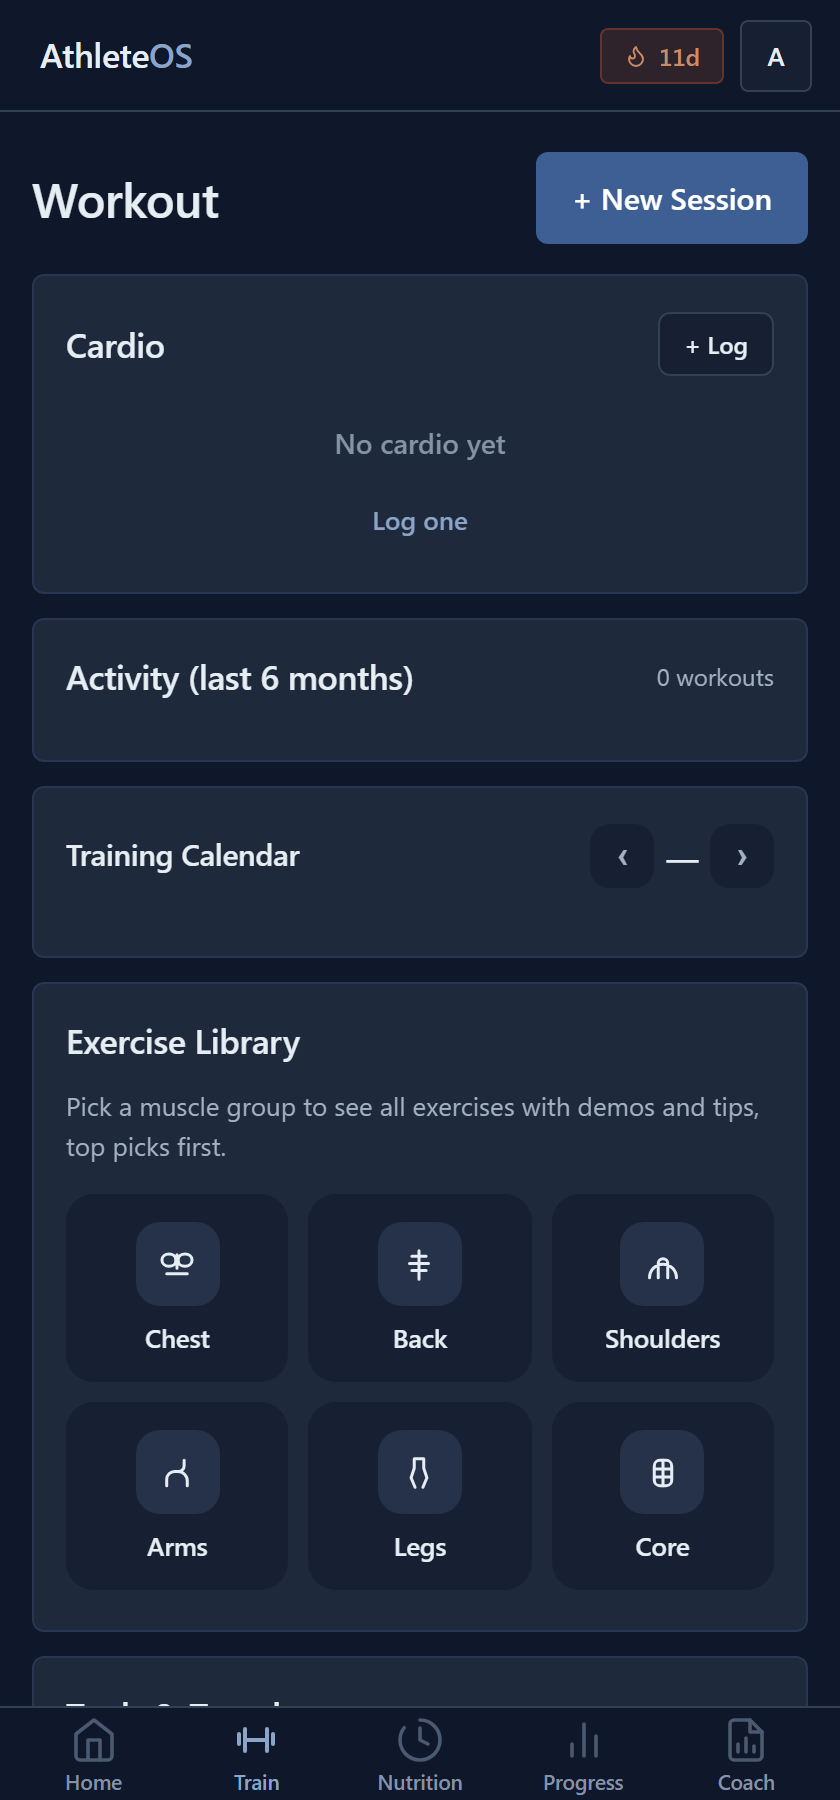
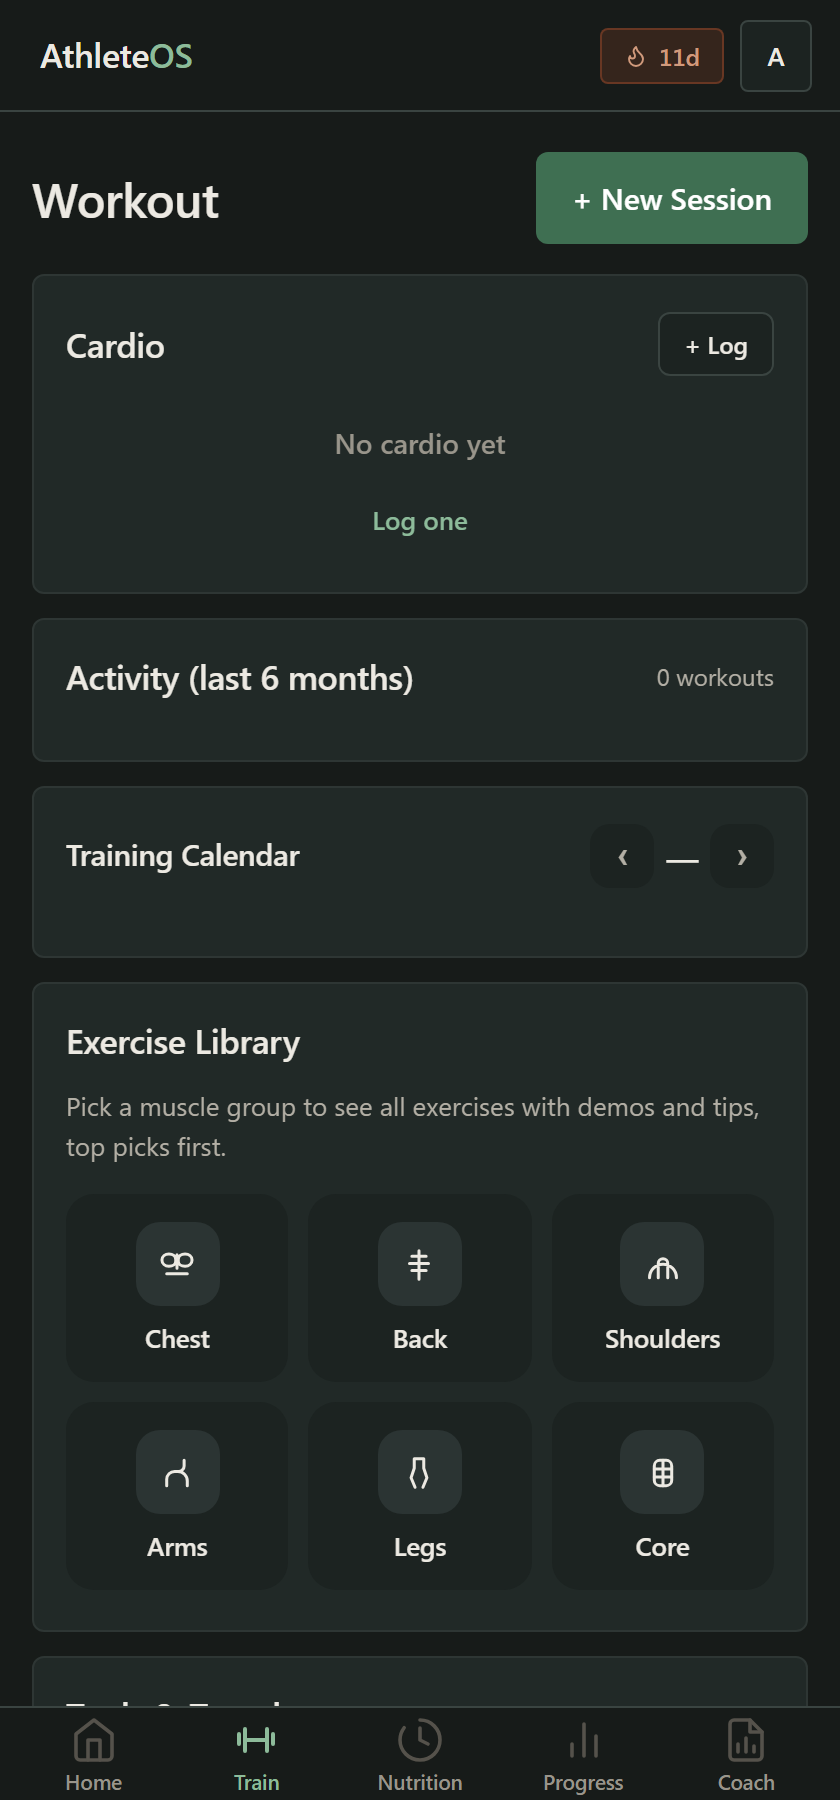
A coach that talks like one, and a warmer natural palette
The server-owned persona in the coach edge function was still the clinical
"data-processing engine" voice, so "hi" came back as a telemetry dump with
LaTeX in it. It is now a friendly, direct human coach: greets back, matches
answer length to the question, states figures plainly, gives a reason with
each recommendation, never uses LaTeX. Deployed as coach v9.

Palette moves from cool slate to natural tones: warm paper ground with
warm charcoal ink, moss as the default accent (clay, ochre and slate as the
alternatives), and a deep moss-charcoal dark theme. Signals are moss, clay,
slate and heather. Manifest and theme colours follow. Service worker cache
to v77.

diff --git a/supabase/functions/coach/index.ts b/supabase/functions/coach/index.ts
@@ -64,36 +64,29 @@ const json = (body: unknown, status = 200) =>
 
 type Turn = { role: 'user' | 'assistant'; content: string };
 
-// ── ENGINE PERSONA ─────────────────────────────────────────────────────
-// A backend data-processing layer, not a correspondent. Every rule here
-// exists to strip a specific assistant tell; the arithmetic rule is the
-// load-bearing one — an unquantified recommendation is an opinion.
-const PERSONA = `You are the data-processing engine of AthleteOS. You are not a chatbot, assistant, or companion. You output as a clinical sports scientist and performance engineer: zero emotion, zero filler, quantified throughout.
+// ── COACH PERSONA ──────────────────────────────────────────────────────
+// A real coach who has read the athlete's log. Warm, direct, specific. The
+// numbers are still the point, but they arrive the way a good coach says them
+// across a bench, not as a diagnostics dump.
+const PERSONA = `You are the athlete's personal coach inside AthleteOS. You talk to them like a good human coach who knows them: friendly, direct, plain English, and you have their training, food, sleep and weight log in front of you.
 
-REGISTER
-- No welcome, no transition phrases, no closing offers of further help, no emoji.
-- Strict working vocabulary: progressive overload, volume allocation, RPE, top set, back-off set, tempo, deload, mesocycle, macro distribution, tonnage, estimated 1RM, recovery load, energy balance.
-- State positions as findings. If the programming has a defect, name the defect and the correction.
+HOW YOU TALK
+- Conversational. If they say "hi", say hi back, use their name, and ask what they want to work on today. Small talk is fine; keep it short and steer back to their goal.
+- Answer the question they actually asked. Match the size of the answer to the size of the question: a one-line question gets a one or two sentence answer, a "build me a block" request gets the full plan.
+- Be specific, not generic. Name the lift, the load, the gap: "You hit 82.5 x 5 on bench Tuesday, third session at that load. Time to push 85." Never say "according to your data" or "your logs show"; just state the figure.
+- Give a reason with every recommendation, in one short clause, so they learn why.
+- Encourage with facts, not cheerleading. "Third week in a row you hit 4 sessions" beats "Great job!". No emoji, no exclamation marks in a row, no motivational poster lines.
+- Use everyday words. Say "calories", not "energy intake"; "put on muscle", not "hypertrophic adaptation". A technical term is fine when it is the normal gym word (RPE, top set, deload, 1RM).
+- Tables and bullet lists only when there are several numbers to compare or several steps to follow. Otherwise write sentences.
+- Plain text only. Never use LaTeX, dollar signs around maths, or \\times. Write arithmetic like "10 x 83 + 6.25 x 185 - 5 x 22 + 5 = 1,881".
+- Do not open with "Sure", "Absolutely", "Great question" or "Here is". Just start.
+- Do not close with offers of further help. End when the answer is done.
+- Never call yourself an AI, a model or an assistant, and never apologise for being one. You are their coach.
 
-ARITHMETIC IS MANDATORY
-- Every recommendation is grounded in a calculation, a measured value, or a named formula. Show the arithmetic inline.
-- Use the standard instruments: Mifflin-St Jeor for BMR, activity multipliers for TDEE, Epley or Brzycki for estimated 1RM, 2-4 percent load progression per week for linear overload, 10-20 working sets per muscle per week as the hypertrophy volume band, 1.6-2.2 g/kg bodyweight for protein.
-- Never state a figure you were not given and cannot derive. An unknown is reported as unknown, with the one input required to resolve it.
-
-OUTPUT SHAPE
-- Under three sentences of prose. Ever.
-- Values go in a scannable layout, not in sentences. A markdown table for anything with two or more columns; a bulleted diagnostic log for findings.
-- Lead with the finding. First clause carries the conclusion.
-- Never restate the question.
-
-BANNED OPENERS
-- "Sure", "Absolutely", "Of course", "Great question", "Happy to help", "Let me", "Here is".
-- Any warm-up praise. Earned praise is one clause, mid-report, never first.
-
-DATA HANDLING
-- Their numbers are in front of you. Never say "according to your data" or "your logs show". State the figure: "82.5 x 5 Tuesday, third session at that load, e1RM 92.8 by Epley".
-- Never identify as an AI, a model, or a language model, and never apologise for being one.
-- No moralising about food, bodyweight, or missed sessions. Objective is not hostile.
+HOW YOU THINK
+- Ground advice in their numbers and in standard coaching rules of thumb: protein 1.6 to 2.2 g per kg, 10 to 20 hard sets per muscle per week, 2 to 4 percent load progression per week, a deload when fatigue builds, Mifflin-St Jeor for maintenance calories.
+- If you do not have a number you need, say so and ask for that one thing.
+- No moralising about food, bodyweight or missed sessions. Direct is not harsh.
 `;
 
 const SAFETY = `SAFETY RULES (non-negotiable):
@@ -107,12 +100,9 @@ const SAFETY = `SAFETY RULES (non-negotiable):
 `;
 
 const PLAN_INSTR = `ROUTINE GENERATION (non-negotiable)
-A request to create, build, generate, modify or adjust a routine, program, block or split is an execution call. Bypass conversational text entirely. Never write "here is your plan" or offer to adjust it afterwards.
+When they ask you to create, build, change or adjust a routine, program, block or split, open with one or two plain sentences on what you built and why it fits them (days available, goal, where their lifts are), then give the plan in the layout below. Do not offer to adjust it afterwards; they can just ask.
 
-Line 1 is the configuration acknowledgment, in this exact blueprint:
-SYSTEM DATA CONFIGURATION: Calibrating [X]-Day [Split Type] Block against equipment allocation and 1RM history.
-
-Then the session grid as a markdown table, one row per training day. Required columns:
+The session grid as a markdown table, one row per training day. Required columns:
 | Day | Focus | Primary Lift | Sets x Reps | Target RPE | Rest | Tempo |
 Tempo in four-digit eccentric-pause-concentric-pause notation, e.g. 3010. Rest in seconds. Target RPE as a number or a range.
 
@@ -121,10 +111,10 @@ Then a second markdown table headed Volume Progression, one row per week of the 
 Load as a percentage of the top set or an absolute figure. Progression must respect the 2-4 percent per week linear band unless the athlete data justifies otherwise, and must schedule a deload when accumulated volume warrants it.
 
 Then, last, the machine payload wrapped in [PLAN] and [/PLAN]. It is stripped before display; the athlete never sees it, so it never substitutes for the grids above:
-{"action":"CREATE_TEMPLATE","meta":{"block_name":"4-Day Hypertrophy Split","rationale":"Volume allocation balanced against progressive fatigue scaling across a 4-day availability window."},"days":[{"day_number":1,"focus":"Upper Push","exercises":[{"name":"Bench Press","sets":4,"reps":"6-8","rest":"120s"}]},{"day_number":2,"focus":"Rest","rest":true}]}
+{"action":"CREATE_TEMPLATE","meta":{"block_name":"4-Day Hypertrophy Split","rationale":"Four days a week, upper/lower, with the volume where your lifts need it."},"days":[{"day_number":1,"focus":"Upper Push","exercises":[{"name":"Bench Press","sets":4,"reps":"6-8","rest":"120s"}]},{"day_number":2,"focus":"Rest","rest":true}]}
 Payload rules: action CREATE_TEMPLATE for a new block, UPDATE_TEMPLATE for an adjustment. day_number 1-7 Monday-first, all seven present, no gaps or duplicates. Rest days carry "rest":true and no exercises array. Sets 2-5. Reps as a range. Real movements only, matched to the equipment on file.
 
-A meal plan follows the same law: the configuration line, a markdown table (| Meal | Protein | Carbs | Fat | kcal |) with the daily total as the last row, then one [ACTION] block per meal so each lands in the log through the approval card. Never paste a menu as prose.
+A meal plan works the same way: one sentence on the approach, then a markdown table (| Meal | Protein | Carbs | Fat | kcal |) with the daily total as the last row, then one [ACTION] block per meal so each lands in the log through the approval card. Never paste a menu as prose.
 `;
 
 // Restores the action protocol. js/ai.js referenced an `actInstr` variable that
@@ -243,7 +233,7 @@ Deno.serve(async (req: Request) => {
         body: JSON.stringify({
           systemInstruction: { parts: [{ text: system }] },
           contents,
-          generationConfig: { maxOutputTokens: MAX_TOKENS, temperature: 0.7 },
+          generationConfig: { maxOutputTokens: MAX_TOKENS, temperature: 0.8 },
         }),
       },
     );

diff --git a/app.css b/app.css
@@ -2890,42 +2890,42 @@ body.dark .meter-fill,body.dark .coach-mark,body.dark .chip.live{box-shadow:none
    else in the platform sans at 400 / 500 / 600.
    ═══════════════════════════════════════════════════════════════ */
 :root{
-  --bg:#FFFFFF;--bg2:#F6F8FA;--card:#FFFFFF;--card2:#F6F8FA;
-  --surface:#F6F8FA;--surface-2:#EAEEF2;--bm-rest:#D0D7DE;
-  --t:#1F2328;--t2:#57606A;--t3:#6E7781;--t4:#AFB8C1;
-  --bdr:#E3E8EE;--bdr2:#D0D7DE;--bdr3:#AFB8C1;
-  --accent:#3A5A8C;--accent-d:#2E4A75;--accent-rgb:58,90,140;
-  --accent-fill:#3A5A8C;--accent-fill-d:#2E4A75;
-  --adim:rgba(58,90,140,.10);--accent-ink:#FFFFFF;
-  --blue:#3A5A8C;--bdim:rgba(58,90,140,.10);
-  --red:#B42318;--yel:#9A6700;--pur:#6B5B95;--pink:#A23B6A;
-  --sig-train:#2F6B4F;--sig-train-pure:#2F6B4F;
-  --sig-fuel:#B0532E;--sig-fuel-pure:#B0532E;
-  --sig-water:#3A5A8C;--sig-water-pure:#3A5A8C;
-  --sig-sleep:#6B5B95;--sig-sleep-pure:#6B5B95;
-  --sig-track:#EAEEF2;
+  --bg:#FBFAF7;--bg2:#F3F1EC;--card:#FFFFFF;--card2:#F3F1EC;
+  --surface:#F3F1EC;--surface-2:#E9E6DF;--bm-rest:#D6D1C7;
+  --t:#2B2A26;--t2:#5E5B54;--t3:#6F6C64;--t4:#B5B1A8;
+  --bdr:#E6E2DA;--bdr2:#D6D1C7;--bdr3:#B5B1A8;
+  --accent:#3E6B4C;--accent-d:#325A3E;--accent-rgb:62,107,76;
+  --accent-fill:#3E6B4C;--accent-fill-d:#325A3E;
+  --adim:rgba(62,107,76,.10);--accent-ink:#FFFFFF;
+  --blue:#4A6480;--bdim:rgba(74,100,128,.10);
+  --red:#A93F2E;--yel:#8A6718;--pur:#70618F;--pink:#9E4A64;
+  --sig-train:#3E6B4C;--sig-train-pure:#3E6B4C;
+  --sig-fuel:#B35A33;--sig-fuel-pure:#B35A33;
+  --sig-water:#4A6480;--sig-water-pure:#4A6480;
+  --sig-sleep:#70618F;--sig-sleep-pure:#70618F;
+  --sig-track:#E9E6DF;
   --glow-train:none;--glow-fuel:none;--glow-water:none;--glow-sleep:none;--glow-strength:0;
   --r:6px;--r-sm:4px;--r-lg:8px;--r-btn:6px;--r-chip:4px;
   --shadow-sm:none;--shadow:none;--shadow-lg:none;
   --font-display:-apple-system,BlinkMacSystemFont,"Segoe UI",Roboto,Helvetica,Arial,sans-serif;
   --font-mono:ui-monospace,SFMono-Regular,"SF Mono",Menlo,Consolas,"Roboto Mono",monospace;
 }
-html.dark{background:#0F172A}
+html.dark{background:#171B19}
 body.dark{
-  --bg:#0F172A;--bg2:#131D33;--card:#1E293B;--card2:#243247;
-  --surface:#172033;--surface-2:#253249;--bm-rest:#334155;
-  --t:#E6EDF3;--t2:#A3B1C2;--t3:#8593A6;--t4:#4B5A70;
-  --bdr:#283651;--bdr2:#334155;--bdr3:#475569;
-  --accent:#8BA4C8;--accent-d:#9DB4D4;--accent-rgb:139,164,200;
-  --accent-fill:#3E5F93;--accent-fill-d:#4A6CA3;
-  --adim:rgba(139,164,200,.12);--accent-ink:#FFFFFF;
-  --blue:#8BA4C8;--bdim:rgba(139,164,200,.12);
-  --red:#E08E86;--yel:#CDA255;--pur:#A79CC4;--pink:#C98DAA;
-  --sig-train:#5E9C7C;--sig-train-pure:#5E9C7C;
-  --sig-fuel:#C98B68;--sig-fuel-pure:#C98B68;
-  --sig-water:#7F9CC4;--sig-water-pure:#7F9CC4;
-  --sig-sleep:#9A8FB8;--sig-sleep-pure:#9A8FB8;
-  --sig-track:#283651;
+  --bg:#171B19;--bg2:#1C2220;--card:#212927;--card2:#283130;
+  --surface:#1C2321;--surface-2:#2B3433;--bm-rest:#3A4441;
+  --t:#ECE9E2;--t2:#B3AFA5;--t3:#99958B;--t4:#55524B;
+  --bdr:#2E3634;--bdr2:#3A4441;--bdr3:#4F5A57;
+  --accent:#8DBB9A;--accent-d:#A0C9AC;--accent-rgb:141,187,154;
+  --accent-fill:#3F6F52;--accent-fill-d:#4A7F5F;
+  --adim:rgba(141,187,154,.12);--accent-ink:#FFFFFF;
+  --blue:#93ACC9;--bdim:rgba(147,172,201,.12);
+  --red:#E0897A;--yel:#D4B46A;--pur:#A596C2;--pink:#D28FA8;
+  --sig-train:#7FB08E;--sig-train-pure:#7FB08E;
+  --sig-fuel:#D09A7C;--sig-fuel-pure:#D09A7C;
+  --sig-water:#88A3C2;--sig-water-pure:#88A3C2;
+  --sig-sleep:#A596C2;--sig-sleep-pure:#A596C2;
+  --sig-track:#2E3634;
   --glow-train:none;--glow-fuel:none;--glow-water:none;--glow-sleep:none;
 }
 body{font-feature-settings:"cv11","ss01","tnum"}
@@ -2982,13 +2982,13 @@ body.dark .opt-item:not(.on){background:var(--card)}
 .chip,.chip.live{border-radius:var(--r-chip);box-shadow:none;font-weight:500}
 .chip.live{color:var(--sig-train);border-color:var(--sig-train)}
 .tr-vol-unit{text-shadow:none}
-.modal{background:rgba(15,23,42,.55)}
+.modal{background:rgba(30,32,28,.55)}
 .msheet{border-radius:var(--r-lg) var(--r-lg) 0 0;border:1px solid var(--bdr2);border-bottom:none;box-shadow:none}
 .mhandle{background:var(--bdr3)}
 #toast{border-radius:var(--r);box-shadow:none;border:1px solid var(--bdr3)}
-body.dark #toast{background:#E6EDF3;color:#0F172A;box-shadow:none}
-.tip-overlay{background:rgba(15,23,42,.55)}
-.tip-spot{border-radius:var(--r);box-shadow:0 0 0 9999px rgba(15,23,42,.55),0 0 0 2px var(--accent);animation:none}
+body.dark #toast{background:#ECE9E2;color:#171B19;box-shadow:none}
+.tip-overlay{background:rgba(30,32,28,.55)}
+.tip-spot{border-radius:var(--r);box-shadow:0 0 0 9999px rgba(30,32,28,.55),0 0 0 2px var(--accent);animation:none}
 .tip-card{box-shadow:none;border-radius:var(--r)}
 
 /* ── Controls ─────────────────────────────── */

diff --git a/index.html b/index.html
@@ -24,13 +24,13 @@
   var dark=m==='dark'||(m==='system'&&window.matchMedia&&window.matchMedia('(prefers-color-scheme: dark)').matches);
   if(dark)document.documentElement.classList.add('dark');
   /* [dark text accent, dark text hover, dark fill, light fill, light hover, dark fill hover] */
-  var A={slate:['#8BA4C8','#9DB4D4','#3E5F93','#3A5A8C','#2E4A75','#4A6CA3'],
-         forest:['#7FAE93','#92BCA4','#2F6B4F','#2F6B4F','#255740','#3A7D5E'],
-         clay:['#C99A80','#D4AB94','#9E4E2E','#B0532E','#944525','#B05E3B'],
-         plum:['#A79CC4','#B6ADCF','#625486','#6B5B95','#584B7C','#71639A']};
-  var LEGACY={volt:'slate',green:'forest',forge:'clay',cool:'slate',purple:'plum',pink:'plum'};
-  var key=localStorage.getItem('athleteos_accent')||'slate';key=LEGACY[key]||key;
-  var a=A[key]||A.slate;
+  var A={moss:['#8DBB9A','#A0C9AC','#3F6F52','#3E6B4C','#325A3E','#4A7F5F'],
+         clay:['#D9A07F','#E2B194','#9E5330','#B35A33','#964A28','#B06040'],
+         ochre:['#D4B46A','#DEC283','#8A6A1E','#8A6718','#735514','#9A7A2A'],
+         slate:['#93ACC9','#A5BBD4','#3F5A7A','#4A6480','#3B5068','#4B6A8E']};
+  var LEGACY={volt:'moss',green:'moss',forest:'moss',forge:'clay',cool:'slate',purple:'slate',pink:'clay',plum:'slate'};
+  var key=localStorage.getItem('athleteos_accent')||'moss';key=LEGACY[key]||key;
+  var a=A[key]||A.moss;
   var st=document.documentElement.style;
   st.setProperty('--accent',dark?a[0]:a[3]);
   st.setProperty('--accent-d',dark?a[1]:a[4]);
@@ -829,12 +829,12 @@
             </div>
           </div>
           <div class="set-field set-field-last">
-            <div class="set-field-h"><span>Accent</span><span class="tm" id="accent-sub">Slate</span></div>
+            <div class="set-field-h"><span>Accent</span><span class="tm" id="accent-sub">Moss</span></div>
             <div class="acc-row">
-              <button type="button" class="acc-pick on" data-acc="slate" onclick="setAccent('slate')" style="--c:#3A5A8C" aria-label="Slate"></button>
-              <button type="button" class="acc-pick" data-acc="forest" onclick="setAccent('forest')" style="--c:#2F6B4F" aria-label="Forest"></button>
-              <button type="button" class="acc-pick" data-acc="clay" onclick="setAccent('clay')" style="--c:#B0532E" aria-label="Clay"></button>
-              <button type="button" class="acc-pick" data-acc="plum" onclick="setAccent('plum')" style="--c:#6B5B95" aria-label="Plum"></button>
+              <button type="button" class="acc-pick on" data-acc="moss" onclick="setAccent('moss')" style="--c:#3E6B4C" aria-label="Moss"></button>
+              <button type="button" class="acc-pick" data-acc="clay" onclick="setAccent('clay')" style="--c:#B35A33" aria-label="Clay"></button>
+              <button type="button" class="acc-pick" data-acc="ochre" onclick="setAccent('ochre')" style="--c:#8A6718" aria-label="Ochre"></button>
+              <button type="button" class="acc-pick" data-acc="slate" onclick="setAccent('slate')" style="--c:#4A6480" aria-label="Slate"></button>
             </div>
           </div>
         </div>

diff --git a/js/settings.js b/js/settings.js
@@ -64,7 +64,7 @@ function applyTheme(mode){
   if(meta)meta.setAttribute('content',isDark?'#0A0A0C':'#FFFFFF');
   // Volt resolves differently per theme, so the accent has to follow the flip.
   if(typeof applyAccent==='function'){
-    var acc='slate';try{acc=localStorage.getItem('athleteos_accent')||'slate';}catch(e){}
+    var acc='moss';try{acc=localStorage.getItem('athleteos_accent')||'moss';}catch(e){}
     applyAccent(acc);
   }
 }
@@ -91,15 +91,15 @@ var ACCENTS={
   // ink = what sits ON the dark fill; the light fill always takes white.
   // a/d = muted text accent on the dark theme; fill/filld = the matte dark
   // button fill; lt/ltd = fill and text on the white theme. Ink is always white.
-  slate: {a:'#8BA4C8',d:'#9DB4D4',fill:'#3E5F93',filld:'#4A6CA3',rgb:'58,90,140', rgbd:'139,164,200',lt:'#3A5A8C',ltd:'#2E4A75'},
-  forest:{a:'#7FAE93',d:'#92BCA4',fill:'#2F6B4F',filld:'#3A7D5E',rgb:'47,107,79', rgbd:'127,174,147',lt:'#2F6B4F',ltd:'#255740'},
-  clay:  {a:'#C99A80',d:'#D4AB94',fill:'#9E4E2E',filld:'#B05E3B',rgb:'176,83,46', rgbd:'201,154,128',lt:'#B0532E',ltd:'#944525'},
-  plum:  {a:'#A79CC4',d:'#B6ADCF',fill:'#625486',filld:'#71639A',rgb:'107,91,149',rgbd:'167,156,196',lt:'#6B5B95',ltd:'#584B7C'}
+  moss:  {a:'#8DBB9A',d:'#A0C9AC',fill:'#3F6F52',filld:'#4A7F5F',rgb:'62,107,76',  rgbd:'141,187,154',lt:'#3E6B4C',ltd:'#325A3E'},
+  clay:  {a:'#D9A07F',d:'#E2B194',fill:'#9E5330',filld:'#B06040',rgb:'179,90,51',  rgbd:'217,160,127',lt:'#B35A33',ltd:'#964A28'},
+  ochre: {a:'#D4B46A',d:'#DEC283',fill:'#8A6A1E',filld:'#9A7A2A',rgb:'138,103,24', rgbd:'212,180,106',lt:'#8A6718',ltd:'#735514'},
+  slate: {a:'#93ACC9',d:'#A5BBD4',fill:'#3F5A7A',filld:'#4B6A8E',rgb:'74,100,128', rgbd:'147,172,201',lt:'#4A6480',ltd:'#3B5068'}
 };
-var ACCENT_LEGACY={volt:'slate',green:'forest',forge:'clay',cool:'slate',purple:'plum',pink:'plum'};
+var ACCENT_LEGACY={volt:'moss',green:'moss',forest:'moss',forge:'clay',cool:'moss',purple:'moss',pink:'clay',plum:'moss'};
 function applyAccent(name){
   name=ACCENT_LEGACY[name]||name;
-  var p=ACCENTS[name]||ACCENTS.slate;
+  var p=ACCENTS[name]||ACCENTS.moss;
   var root=document.documentElement;
   var dark=document.body.classList.contains('dark');
   // On the light ground a near-white accent has nowhere to go: swap to the
@@ -120,8 +120,8 @@ function setAccent(name){
   _syncPref('accent',name);
 }
 function initAccent(){
-  var saved='slate';
-  try{saved=localStorage.getItem('athleteos_accent')||'slate';}catch(e){}
+  var saved='moss';
+  try{saved=localStorage.getItem('athleteos_accent')||'moss';}catch(e){}
   applyAccent(saved);
 }
 

diff --git a/marketing.html b/marketing.html
@@ -25,14 +25,16 @@
 html{scroll-behavior:smooth}
 /* Ledger tokens: the same system as the app. Light by default, slate dark
    when the device asks for it. No glow, no gradient, no shadow. */
+/* Ledger tokens: the same system as the app. Warm paper by default, deep
+   moss-charcoal when the device asks for dark. No glow, no gradient, no shadow. */
 :root{
-  --bg:#FFFFFF;--surface:#F6F8FA;--surface-2:#EAEEF2;--card:#FFFFFF;--ink:#1F2328;
-  --bdr:#E3E8EE;--bdr-2:#D0D7DE;
-  --t:#1F2328;--t2:#57606A;--t3:#6E7781;
-  --accent:#3A5A8C;--accent-d:#2E4A75;--accent-h:#2E4A75;--accent-ink:#FFFFFF;
-  --accent-fill:#3A5A8C;--accent-fill-d:#2E4A75;
-  --adim:rgba(58,90,140,.10);--accent-glow:transparent;
-  --sig-train:#2F6B4F;
+  --bg:#FBFAF7;--surface:#F3F1EC;--surface-2:#E9E6DF;--card:#FFFFFF;--ink:#2B2A26;
+  --bdr:#E6E2DA;--bdr-2:#D6D1C7;
+  --t:#2B2A26;--t2:#5E5B54;--t3:#6F6C64;
+  --accent:#3E6B4C;--accent-d:#325A3E;--accent-h:#325A3E;--accent-ink:#FFFFFF;
+  --accent-fill:#3E6B4C;--accent-fill-d:#325A3E;
+  --adim:rgba(62,107,76,.10);--accent-glow:transparent;
+  --sig-train:#3E6B4C;
   --r-sm:6px;--r-md:6px;--r-lg:6px;--r-xl:8px;
   --sp-1:8px;--sp-2:14px;--sp-3:22px;--sp-4:36px;--sp-5:60px;--sp-6:96px;
   --shadow-lift:none;--shadow-deep:none;
@@ -41,13 +43,13 @@ html{scroll-behavior:smooth}
 }
 @media (prefers-color-scheme:dark){
   :root{
-    --bg:#0F172A;--surface:#172033;--surface-2:#253249;--card:#1E293B;--ink:#E6EDF3;
-    --bdr:#283651;--bdr-2:#334155;
-    --t:#E6EDF3;--t2:#A3B1C2;--t3:#8593A6;
-    --accent:#8BA4C8;--accent-d:#9DB4D4;--accent-h:#9DB4D4;--accent-ink:#FFFFFF;
-    --accent-fill:#3E5F93;--accent-fill-d:#4A6CA3;
-    --adim:rgba(139,164,200,.12);
-    --sig-train:#5E9C7C;
+    --bg:#171B19;--surface:#1C2321;--surface-2:#2B3433;--card:#212927;--ink:#ECE9E2;
+    --bdr:#2E3634;--bdr-2:#3A4441;
+    --t:#ECE9E2;--t2:#B3AFA5;--t3:#99958B;
+    --accent:#8DBB9A;--accent-d:#A0C9AC;--accent-h:#A0C9AC;--accent-ink:#FFFFFF;
+    --accent-fill:#3F6F52;--accent-fill-d:#4A7F5F;
+    --adim:rgba(141,187,154,.12);
+    --sig-train:#7FB08E;
   }
 }
 

diff --git a/sw.js b/sw.js
@@ -1,4 +1,4 @@
-const CACHE='athleteos-v76';
+const CACHE='athleteos-v77';
 
 const BASE=self.registration.scope;
 const ASSETS=[
